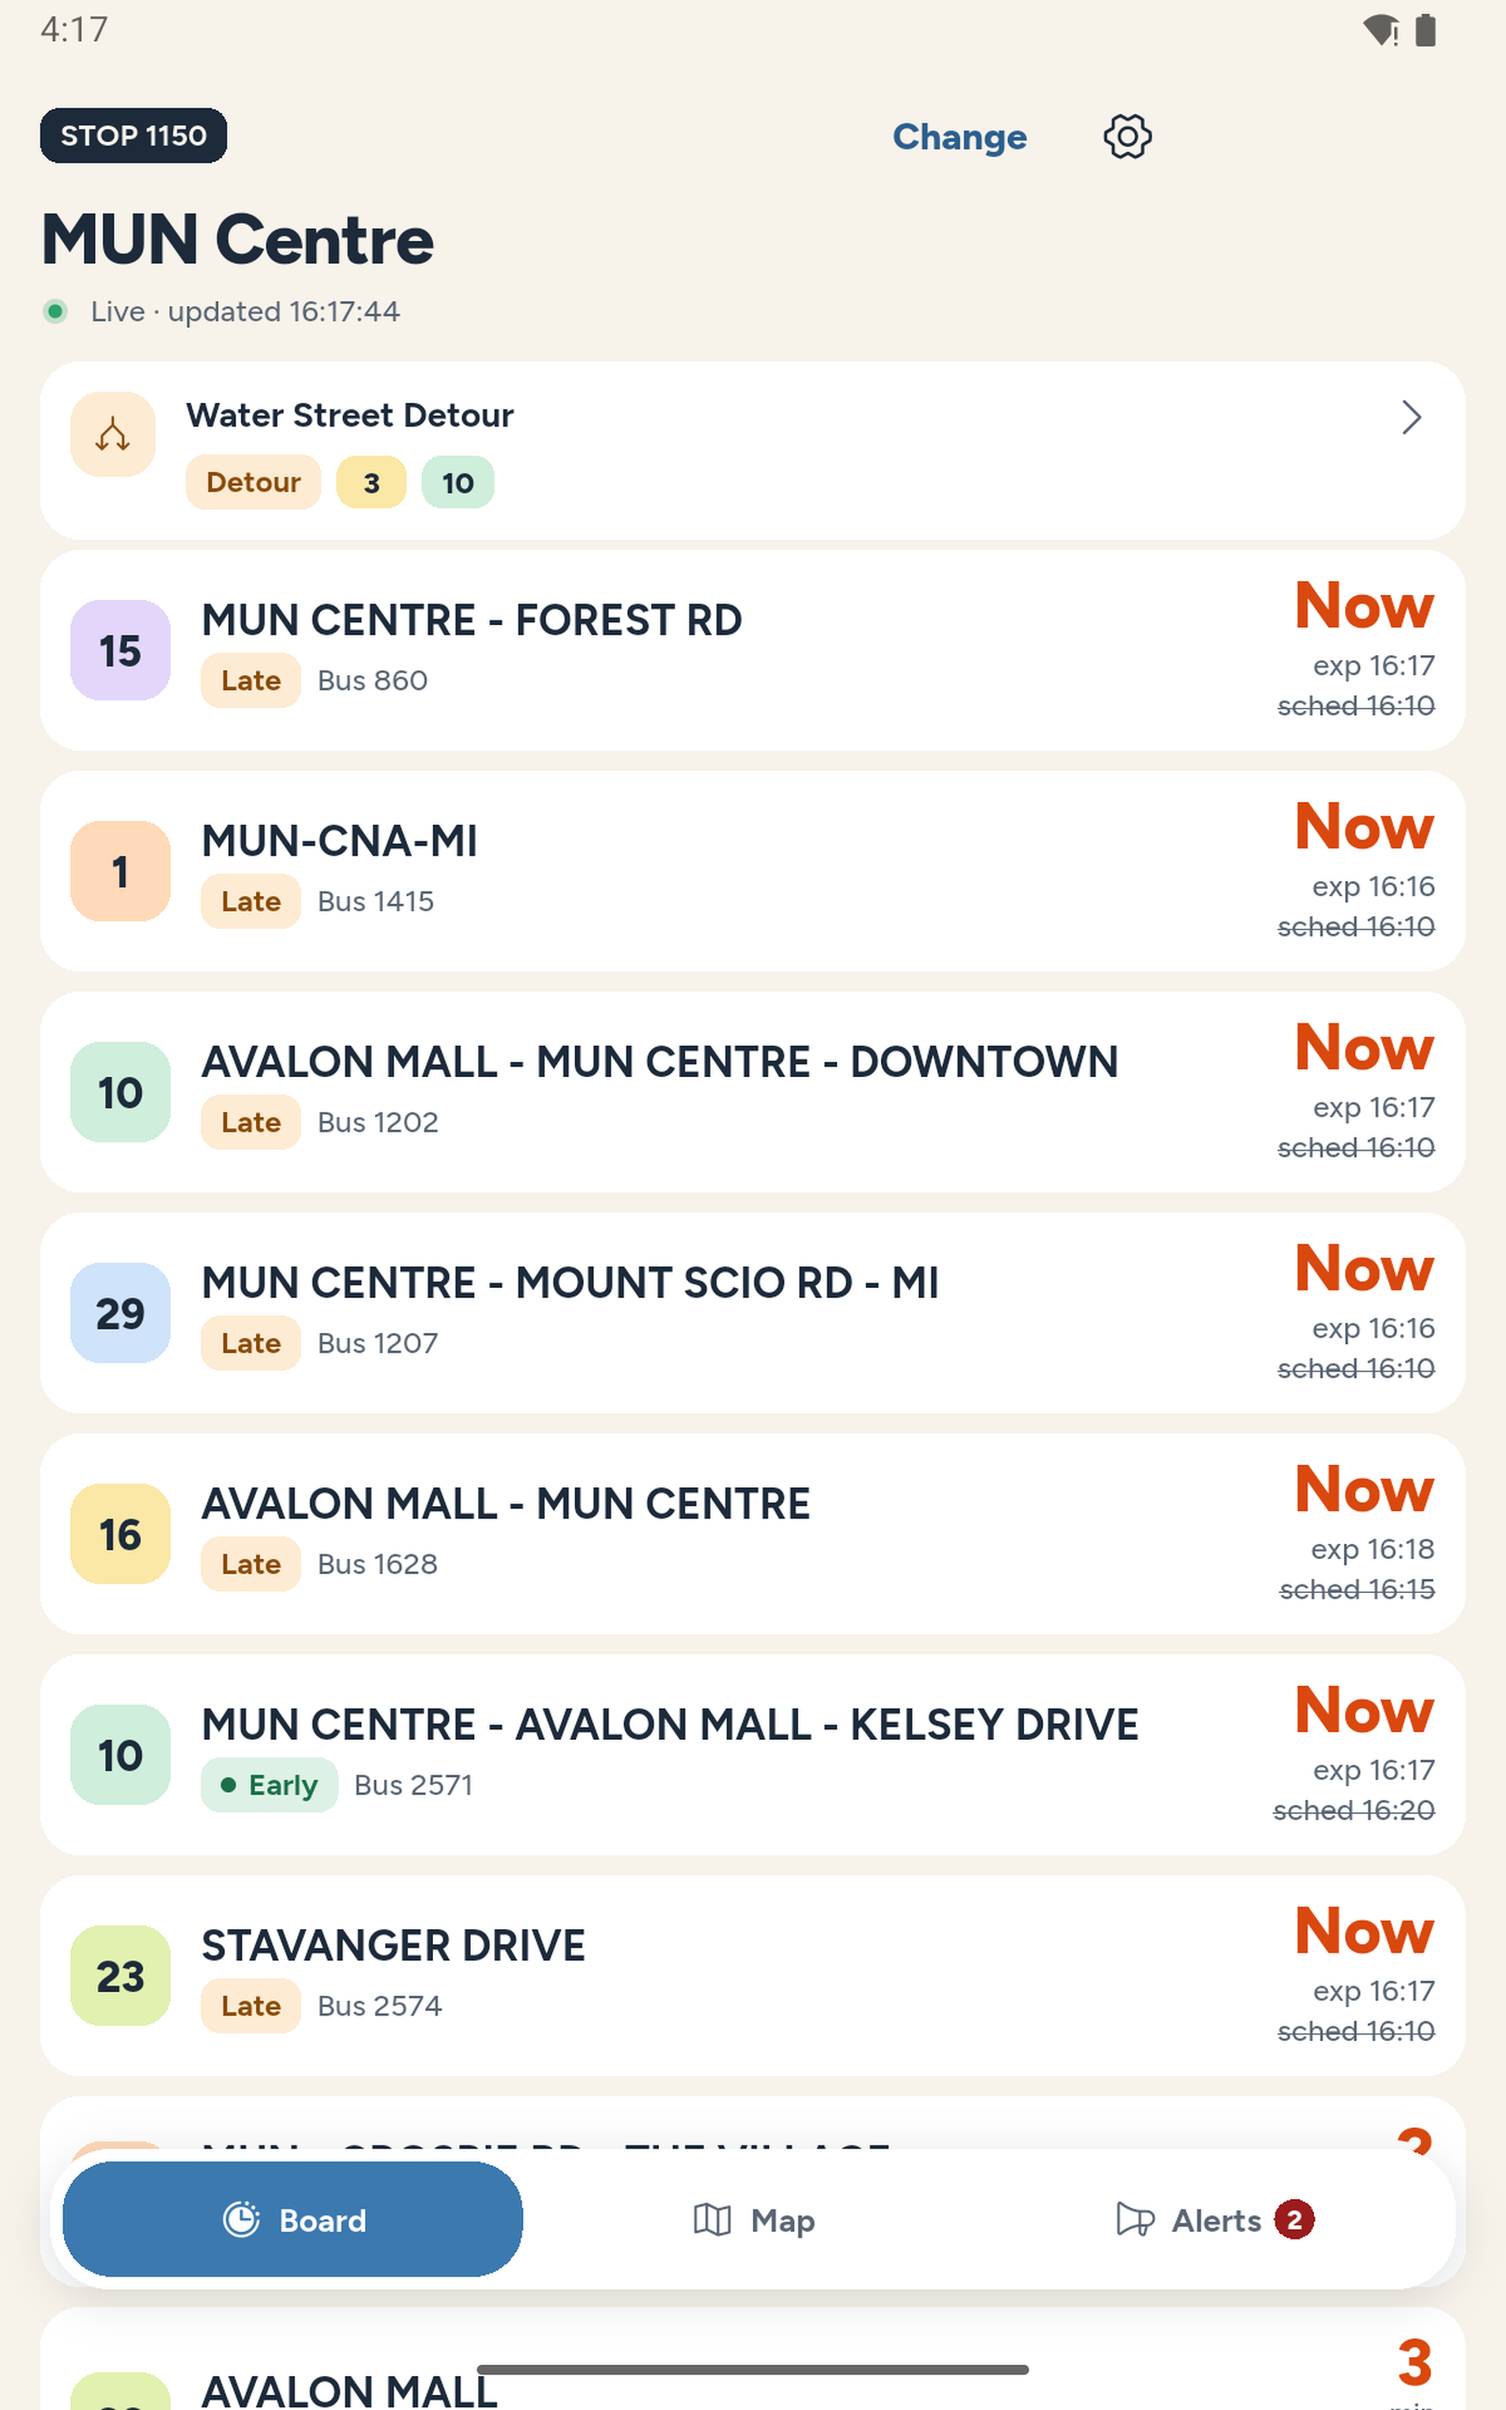
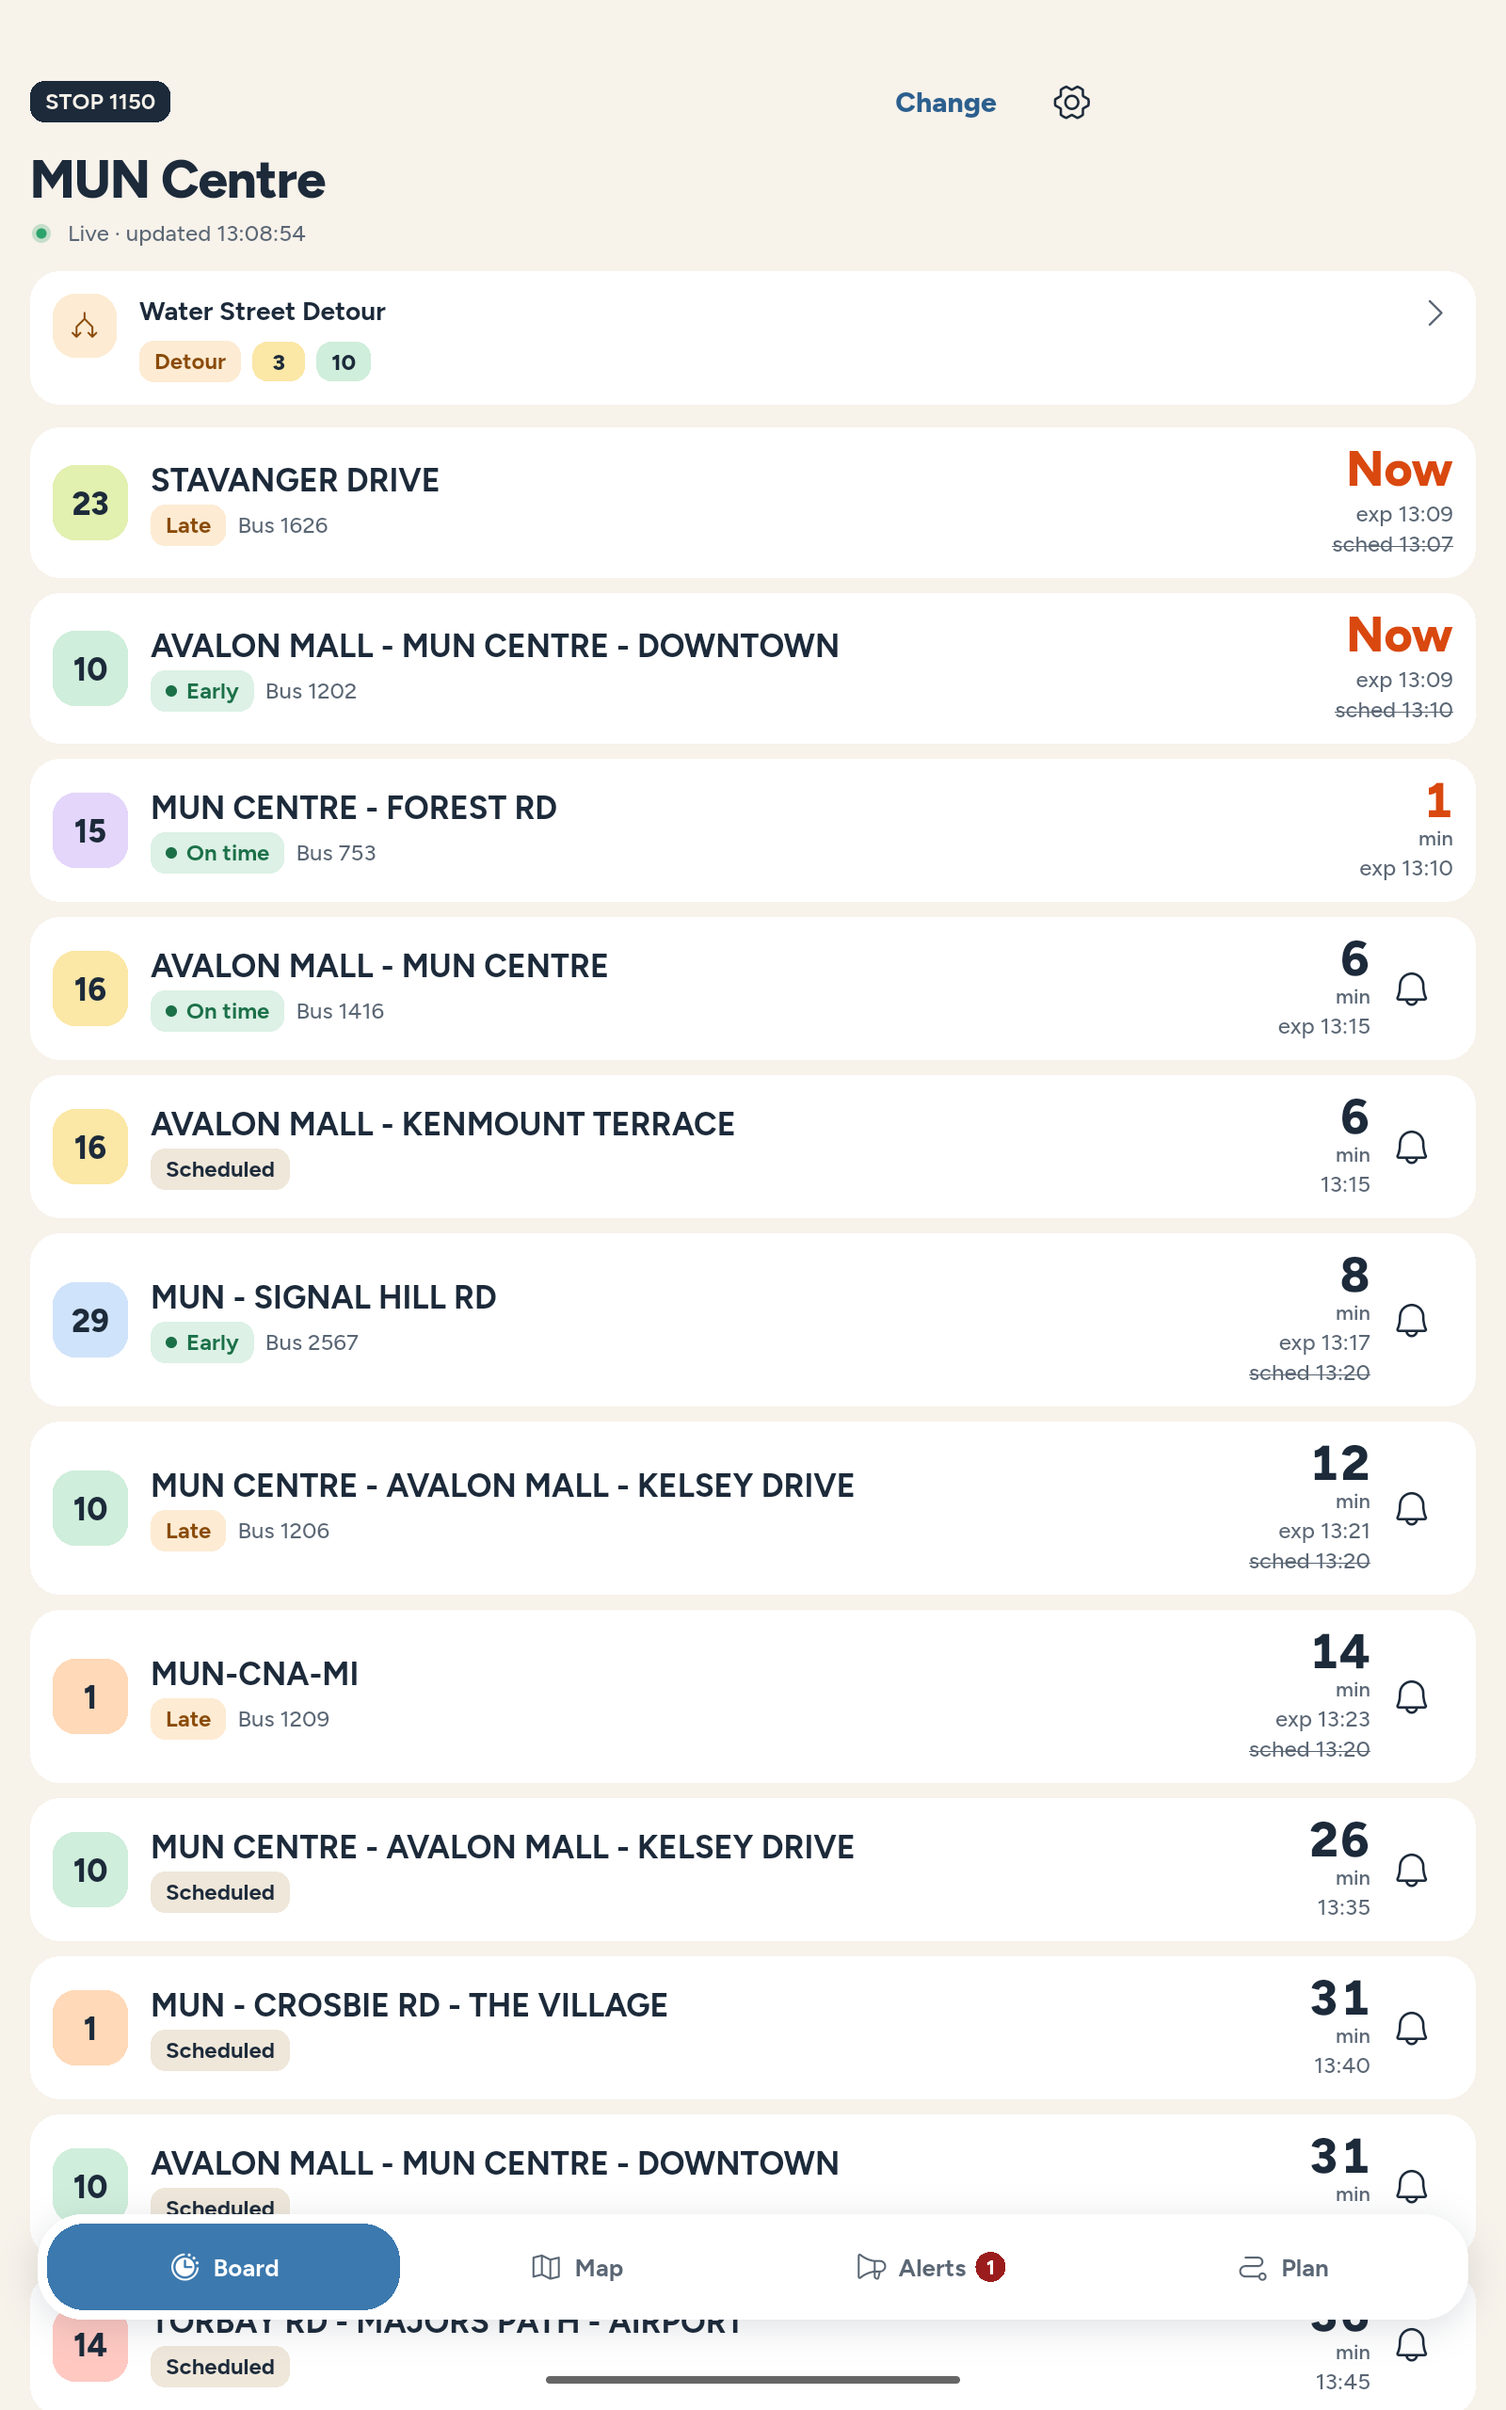
chore(store): 1.4.0 tablet screenshots
- Recapture the Android 7" and 10" tablet raws on a tablet layout with
  live data: Plan a trip, trip detail and arrival alert added, the
  five existing screens redone with the 4-tab bar
- render.py: tablets use the same 8-slide order as the phones;
  the 1.2.0 TABLET_SLIDES list is gone

diff --git a/store/marketing/render.py b/store/marketing/render.py
@@ -22,16 +22,6 @@ SLIDES = [
     ('08-service-alerts', '04-service-alerts', 'blue', 'Detours and alerts<br>for your routes', 'Official Metrobus service alerts,<br>matched to your stop'),
 ]
 
-# The 1.2.0 set, still used by the Android tablets (no 1.3/1.4 captures for them yet).
-TABLET_SLIDES = [
-    ('01-follow', '03-follow-a-bus', 'blue', 'Follow your bus<br>to your stop', 'See the stops left, the minutes away,<br>and when it arrives'),
-    ('02-arrivals', '01-mun-centre-1150', 'blue', 'Live arrivals<br>at your stop', 'Metrobus predictions next to the schedule,<br>early or late at a glance'),
-    ('03-map', '02-live-map', 'blue', 'Every bus,<br>live on the map', 'Route colours and smooth movement<br>between position updates'),
-    ('04-nearby', '05-nearby-stops', 'blue', 'Stops near you,<br>in a tap', 'Nearby stops with their routes,<br>or enter any stop number'),
-    ('05-alerts', '04-service-alerts', 'blue', 'Detours and alerts<br>for your routes', 'Official Metrobus service alerts,<br>matched to your stop'),
-    ('06-dark', '06-avalon-mall-1600', 'navy', 'Easy on the eyes,<br>day or night', 'Light and dark themes, larger text<br>and screen-reader support'),
-]
-
 SETS = {
     # name: (device, width, height, source dir, slides)
     'iphone': ('iphone', 1320, 2868, 'app-store/screenshots/APP_IPHONE_69', SLIDES),
@@ -39,8 +29,8 @@ SETS = {
     'iphone65': ('iphone', 1284, 2778, 'app-store/screenshots/APP_IPHONE_69', SLIDES),
     'ipad': ('ipad', 2064, 2752, 'app-store/screenshots/APP_IPAD_PRO_3GEN_129', SLIDES),
     'android': ('android', 1080, 2160, 'marketing/clean/phoneScreenshots', SLIDES),
-    'tab7': ('tablet', 1200, 1920, 'marketing/clean/sevenInchScreenshots', TABLET_SLIDES),
-    'tab10': ('tablet', 1600, 2560, 'marketing/clean/tenInchScreenshots', TABLET_SLIDES),
+    'tab7': ('tablet', 1200, 1920, 'marketing/clean/sevenInchScreenshots', SLIDES),
+    'tab10': ('tablet', 1600, 2560, 'marketing/clean/tenInchScreenshots', SLIDES),
 }
 
 def render(name):
